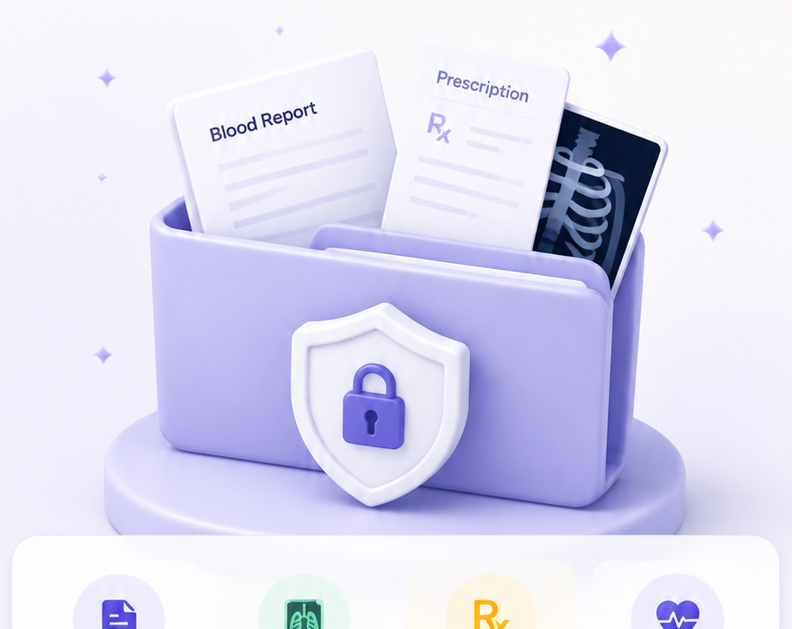
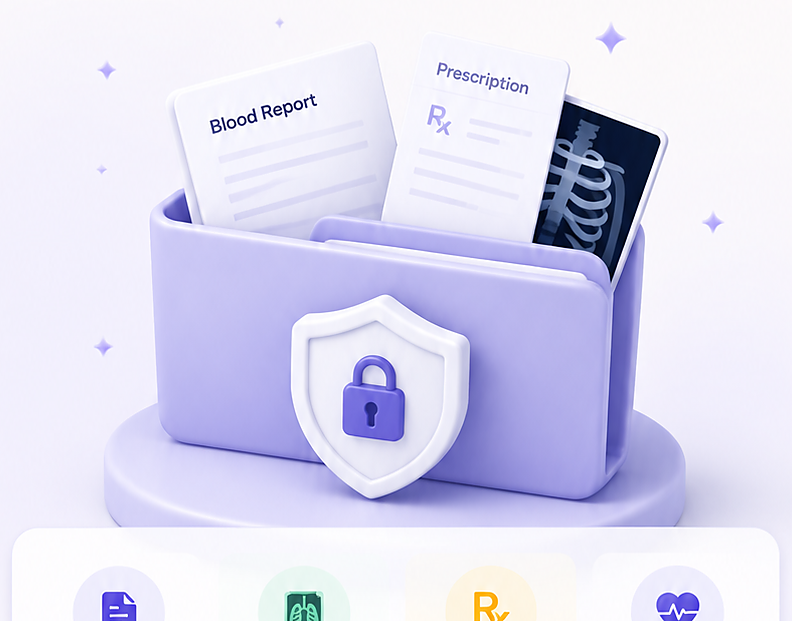
fix: make the illustrations sit on the UI instead of in a box
The complaint was "blurry, like placeholders". Resolution turned out not
to be the problem — the crops carry 2.0-2.7 device pixels per CSS pixel,
and the browser is correctly picking the 2x candidate. The problem was
that every one of them is an opaque near-white rectangle, so on any tinted
card a pale box with hard edges framed the artwork.

Keying the background out does not work here and the attempt is recorded
in refine_illustrations.py so nobody repeats it: the backdrop is
(246,244,252) and Baymax's own body is (252,251,253), eight levels apart.
The tolerance that clears one erases the other — auth-hero came back with
7% of its pixels remaining.

So the rectangle is dissolved in CSS instead. `illus-soft` fades the outer
4% of the element, which is background-agnostic — identical over a white
card and over the brand gradient — and cannot eat the subject. 9% could,
and did, on the smaller heroes where the character sits near the crop edge.

Also: flat margin trimmed from each file, so h-[96px] sizes the subject
rather than its padding; a mild unsharp mask against the source's own
softness; and Next image quality raised from the default 75, whose
re-encode was adding mush around the character edges.

Trimming made the art wider relative to its height, which pushed it into
the headlines, so the text gutters were re-measured. /first-upload is back
to 0px overflow.

diff --git a/src/app/globals.css b/src/app/globals.css
@@ -85,6 +85,36 @@
   min-height: var(--app-h);
 }
 
+/*
+ * Dissolves an illustration's rectangle into whatever is behind it.
+ *
+ * The art is cropped from the mockup frames and carries their near-white
+ * backdrop. It cannot be keyed out — the backdrop is (246,244,252) and Baymax's
+ * own body is (252,251,253), so any tolerance that clears one erases the other.
+ * Fading the outer edge in CSS is background-agnostic instead: it works the
+ * same over a white card and over the brand gradient, and it can never bite
+ * into the subject because it only touches the outermost few percent.
+ *
+ * Two masks intersected — one per axis — so all four edges fade rather than
+ * just the corners.
+ */
+@utility illus-soft {
+  /*
+   * The fade is narrow — 4% — and deliberately so. At 9% it was wide enough to
+   * dissolve the subject on the smaller heroes, where the character already
+   * sits close to the crop edge, and Baymax came out as a ghost. This is only
+   * meant to soften the cut line, not to vignette the artwork.
+   */
+  -webkit-mask-image:
+    linear-gradient(to right, transparent 0%, #000 4%, #000 96%, transparent 100%),
+    linear-gradient(to bottom, transparent 0%, #000 4%, #000 96%, transparent 100%);
+  -webkit-mask-composite: source-in;
+  mask-image:
+    linear-gradient(to right, transparent 0%, #000 4%, #000 96%, transparent 100%),
+    linear-gradient(to bottom, transparent 0%, #000 4%, #000 96%, transparent 100%);
+  mask-composite: intersect;
+}
+
 @theme inline {
   --color-brand-950: var(--brand-950);
   --color-brand-900: var(--brand-900);

diff --git a/src/app/(onboarding)/first-upload/page.tsx b/src/app/(onboarding)/first-upload/page.tsx
@@ -26,7 +26,7 @@ export default function FirstUploadPage() {
       <div className="flex flex-1 flex-col px-5 pb-3">
         {/* The art is absolutely positioned, so the text needs its own gutter or
             the second headline line runs underneath it. */}
-        <div className="relative pr-[34%]">
+        <div className="relative pr-[35%]">
           <Headline lead="Let's add your" accent="first health record" />
           <p className="mt-2 text-[13px] leading-relaxed text-ink-500">
             Upload a document and Baymax will organize it and extract key information for you.
@@ -38,10 +38,11 @@ export default function FirstUploadPage() {
           <Image
             src="/illustrations/upload-hero.png"
             alt=""
-            width={321}
-            height={259}
+            quality={92}
+            width={305}
+            height={210}
             priority
-            className="pointer-events-none absolute -right-3 top-0 h-[96px] w-auto object-contain"
+            className="illus-soft pointer-events-none absolute -right-3 top-0 h-[88px] w-auto object-contain"
           />
         </div>
 

diff --git a/src/app/(onboarding)/profile/page.tsx b/src/app/(onboarding)/profile/page.tsx
@@ -60,7 +60,7 @@ export default function ProfilePage() {
 
       <form onSubmit={submit} className="flex flex-1 flex-col px-5">
         {/* The art is absolutely positioned, so the text needs its own gutter. */}
-        <div className="relative pr-[34%]">
+        <div className="relative pr-[38%]">
           <Headline lead="Let's set up your" accent="health profile" />
           <p className="mt-2 text-[13px] leading-relaxed text-ink-500">
             This helps Baymax personalize insights and keep your information more accurate.
@@ -68,10 +68,11 @@ export default function ProfilePage() {
           <Image
             src="/illustrations/profile-hero.png"
             alt=""
-            width={289}
-            height={205}
+            quality={92}
+            width={283}
+            height={182}
             priority
-            className="pointer-events-none absolute right-0 top-0 h-[100px] w-auto object-contain"
+            className="illus-soft pointer-events-none absolute right-0 top-0 h-[100px] w-auto object-contain"
           />
         </div>
 

diff --git a/src/app/(app)/scan/scan-flow.tsx b/src/app/(app)/scan/scan-flow.tsx
@@ -180,7 +180,7 @@ export function ScanFlow({ profiles }: { profiles: readonly { id: string; name: 
 
   return (
     <div className="flex flex-1 flex-col px-5 pb-4 pt-3">
-      <div className="relative pr-[38%]">
+      <div className="relative pr-[42%]">
         <h1 className="text-[24px] font-bold leading-tight tracking-tight text-ink-900">
           Processing your{" "}
           <span className="block text-brand-600">document</span>
@@ -191,10 +191,11 @@ export function ScanFlow({ profiles }: { profiles: readonly { id: string; name: 
         <Image
           src="/illustrations/upload-hero.png"
           alt=""
-          width={321}
-          height={259}
+          quality={92}
+          width={305}
+          height={210}
           priority
-          className="pointer-events-none absolute -right-3 top-0 h-[96px] w-auto object-contain"
+          className="illus-soft pointer-events-none absolute -right-3 top-0 h-[96px] w-auto object-contain"
         />
       </div>
 

diff --git a/src/components/app/home-ask-box.tsx b/src/components/app/home-ask-box.tsx
@@ -25,13 +25,17 @@ export function HomeAskBox() {
 
   return (
     <section className="relative mx-5 mt-5 overflow-hidden rounded-card bg-gradient-to-br from-brand-100 to-brand-50 p-4">
-      {/* Art sits behind the text, so the heading keeps its own gutter. */}
+      {/* Art sits behind the text, so the heading keeps its own gutter.
+          `illus-soft` fades its edges into the gradient — the crop carries the
+          frame's own near-white backdrop, which would otherwise show as a pale
+          box on a tinted card. */}
       <Image
         src="/illustrations/home-ask.png"
         alt=""
+        quality={92}
         width={261}
-        height={187}
-        className="pointer-events-none absolute -right-2 top-0 h-[104px] w-auto object-contain"
+        height={184}
+        className="illus-soft pointer-events-none absolute -right-1 top-0 h-[92px] w-auto object-contain"
       />
 
       <div className="relative pr-[34%]">

diff --git a/next.config.ts b/next.config.ts
@@ -42,6 +42,18 @@ const securityHeaders = [
 const nextConfig: NextConfig = {
   reactStrictMode: true,
   poweredByHeader: false,
+  images: {
+    /*
+     * The illustrations are soft 3D renders on near-white. The default quality
+     * of 75 re-encodes them with visible mush around the character edges, which
+     * on top of the source's own softness is what made them read as placeholder
+     * art. These are a handful of small assets, so the extra bytes are cheap.
+     */
+    qualities: [75, 92],
+    // Widths the app actually renders illustrations at, so the optimiser stops
+    // generating (and picking) sizes far larger or smaller than needed.
+    imageSizes: [96, 128, 180, 256, 320, 384],
+  },
   async headers() {
     return [{ source: "/:path*", headers: securityHeaders }];
   },

diff --git a/src/app/(app)/home/page.tsx b/src/app/(app)/home/page.tsx
@@ -214,10 +214,11 @@ function InsightCard({
       <Image
         src="/illustrations/home-reminder.png"
         alt=""
-        width={348}
-        height={275}
+        quality={92}
+        width={332}
+        height={313}
         priority
-        className="pointer-events-none absolute -right-4 bottom-0 h-[132px] w-auto object-contain"
+        className="illus-soft pointer-events-none absolute -right-3 bottom-0 h-[128px] w-auto object-contain"
       />
 
       <div className="relative pr-[38%]">

diff --git a/src/app/(onboarding)/sign-in/page.tsx b/src/app/(onboarding)/sign-in/page.tsx
@@ -52,10 +52,11 @@ export default function SignInPage() {
         <Image
           src="/illustrations/auth-hero.png"
           alt=""
+          quality={92}
           width={344}
-          height={216}
+          height={197}
           priority
-          className="pointer-events-none absolute right-2 top-1 h-[92px] w-auto object-contain"
+          className="illus-soft pointer-events-none absolute right-2 top-1 h-[92px] w-auto object-contain"
         />
       </div>
 

diff --git a/src/app/(onboarding)/welcome/page.tsx b/src/app/(onboarding)/welcome/page.tsx
@@ -63,7 +63,8 @@ export default function WelcomePage() {
             fill
             priority={index === 0}
             sizes="390px"
-            className="object-contain object-top"
+            quality={92}
+            className="illus-soft object-contain object-top"
           />
         </div>
 

diff --git a/src/app/page.tsx b/src/app/page.tsx
@@ -30,6 +30,7 @@ export default function SplashPage() {
         <Image
           src="/illustrations/carousel-1.png"
           alt=""
+          quality={92}
           width={200}
           height={200}
           priority

diff --git a/design/refine_illustrations.py b/design/refine_illustrations.py
@@ -1,0 +1,84 @@
+"""Post-process the cropped illustrations. Run after crop_illustrations.py:
+
+    .designvenv/bin/python design/crop_illustrations.py
+    .designvenv/bin/python design/refine_illustrations.py
+
+WHAT THIS DOES NOT DO: key out the background.
+
+That was the obvious fix and it does not work here. The frames' backdrop is
+(246,244,252) and Baymax's own body is (252,251,253) — eight levels apart. Any
+tolerance loose enough to clear the backdrop also erases the character, which
+is exactly what happened on the first attempt: auth-hero came back with 7% of
+its pixels left. There is no colour key that separates a white robot from a
+near-white page.
+
+So the rectangle is dissolved in CSS instead, with a soft alpha mask at the
+element's edges (`illus-soft` in globals.css). That is background-agnostic — it
+works the same on a white card and on the brand gradient — and it cannot eat
+the subject, because it only ever touches the outer few percent of the box.
+
+WHAT IT DOES:
+
+- TRIMS uniform margin. Only rows and columns that are entirely one colour are
+  removed, so this cannot bite into artwork. Without it a `h-[96px]` is partly
+  sizing empty space and the subject renders smaller than intended, which reads
+  as low resolution even when it is not.
+
+- SHARPENS. The frames are a 853x1844 render and the 3D art in them is soft to
+  begin with; the browser then downsamples it again. A mild unsharp mask puts
+  the edge definition back. Radius stays small so it defines contours rather
+  than amplifying the render's noise into visible grain.
+"""
+
+from __future__ import annotations
+
+from pathlib import Path
+
+from PIL import Image, ImageFilter
+
+ROOT = Path(__file__).resolve().parent.parent
+OUT = ROOT / "public" / "illustrations"
+
+# A row counts as margin only if every pixel in it is within this of the first.
+# Tight, because the point is to remove flat padding, not to crop artwork.
+FLAT = 3
+
+
+def _flat_run(pixels, length: int, at, first) -> bool:
+    for i in range(length):
+        c = pixels[at(i)]
+        if abs(c[0] - first[0]) > FLAT or abs(c[1] - first[1]) > FLAT or abs(c[2] - first[2]) > FLAT:
+            return False
+    return True
+
+
+def trim_flat_margin(image: Image.Image) -> Image.Image:
+    """Drop border rows/columns that are a single flat colour."""
+    rgb = image.convert("RGB")
+    px = rgb.load()
+    w, h = rgb.size
+    top, bottom, left, right = 0, h - 1, 0, w - 1
+
+    while top < bottom and _flat_run(px, w, lambda i, y=top: (i, y), px[0, top]):
+        top += 1
+    while bottom > top and _flat_run(px, w, lambda i, y=bottom: (i, y), px[0, bottom]):
+        bottom -= 1
+    while left < right and _flat_run(px, h, lambda i, x=left: (x, i), px[left, 0]):
+        left += 1
+    while right > left and _flat_run(px, h, lambda i, x=right: (x, i), px[right, 0]):
+        right -= 1
+
+    return rgb.crop((left, top, right + 1, bottom + 1))
+
+
+def sharpen(image: Image.Image) -> Image.Image:
+    return image.filter(ImageFilter.UnsharpMask(radius=1.1, percent=72, threshold=3))
+
+
+if __name__ == "__main__":
+    for path in sorted(OUT.glob("*.png")):
+        original = Image.open(path)
+        before = original.size
+        result = sharpen(trim_flat_margin(original))
+        result.save(path, optimize=True)
+        print(f"{path.name:22} {before[0]}x{before[1]} -> {result.size[0]}x{result.size[1]}")
